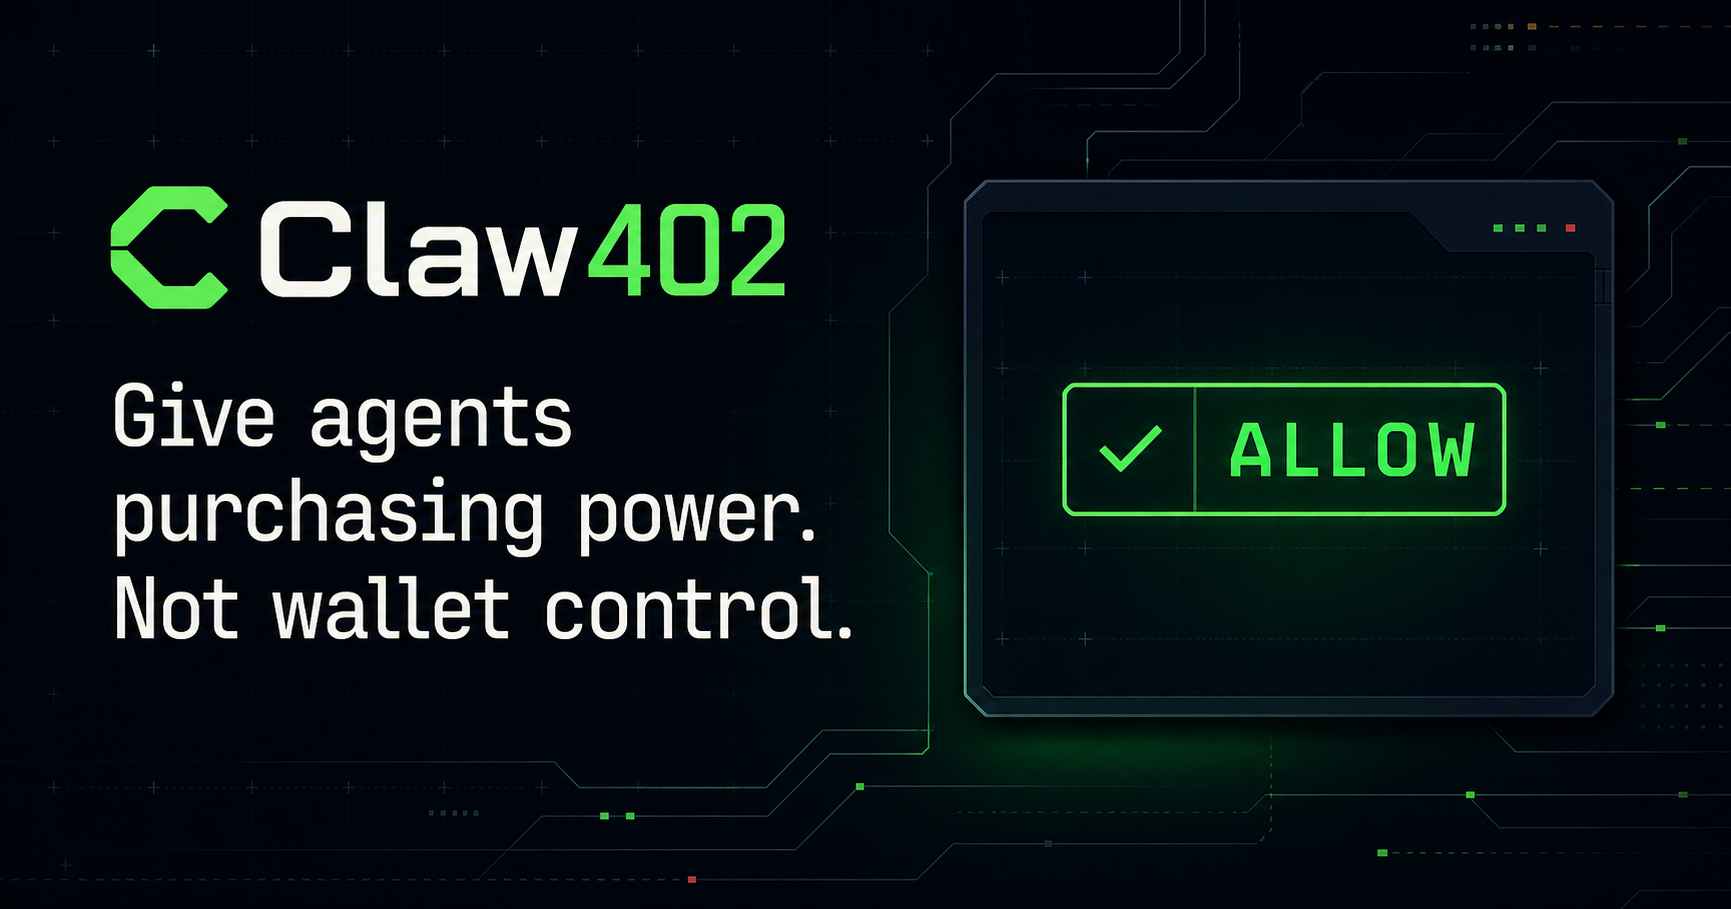
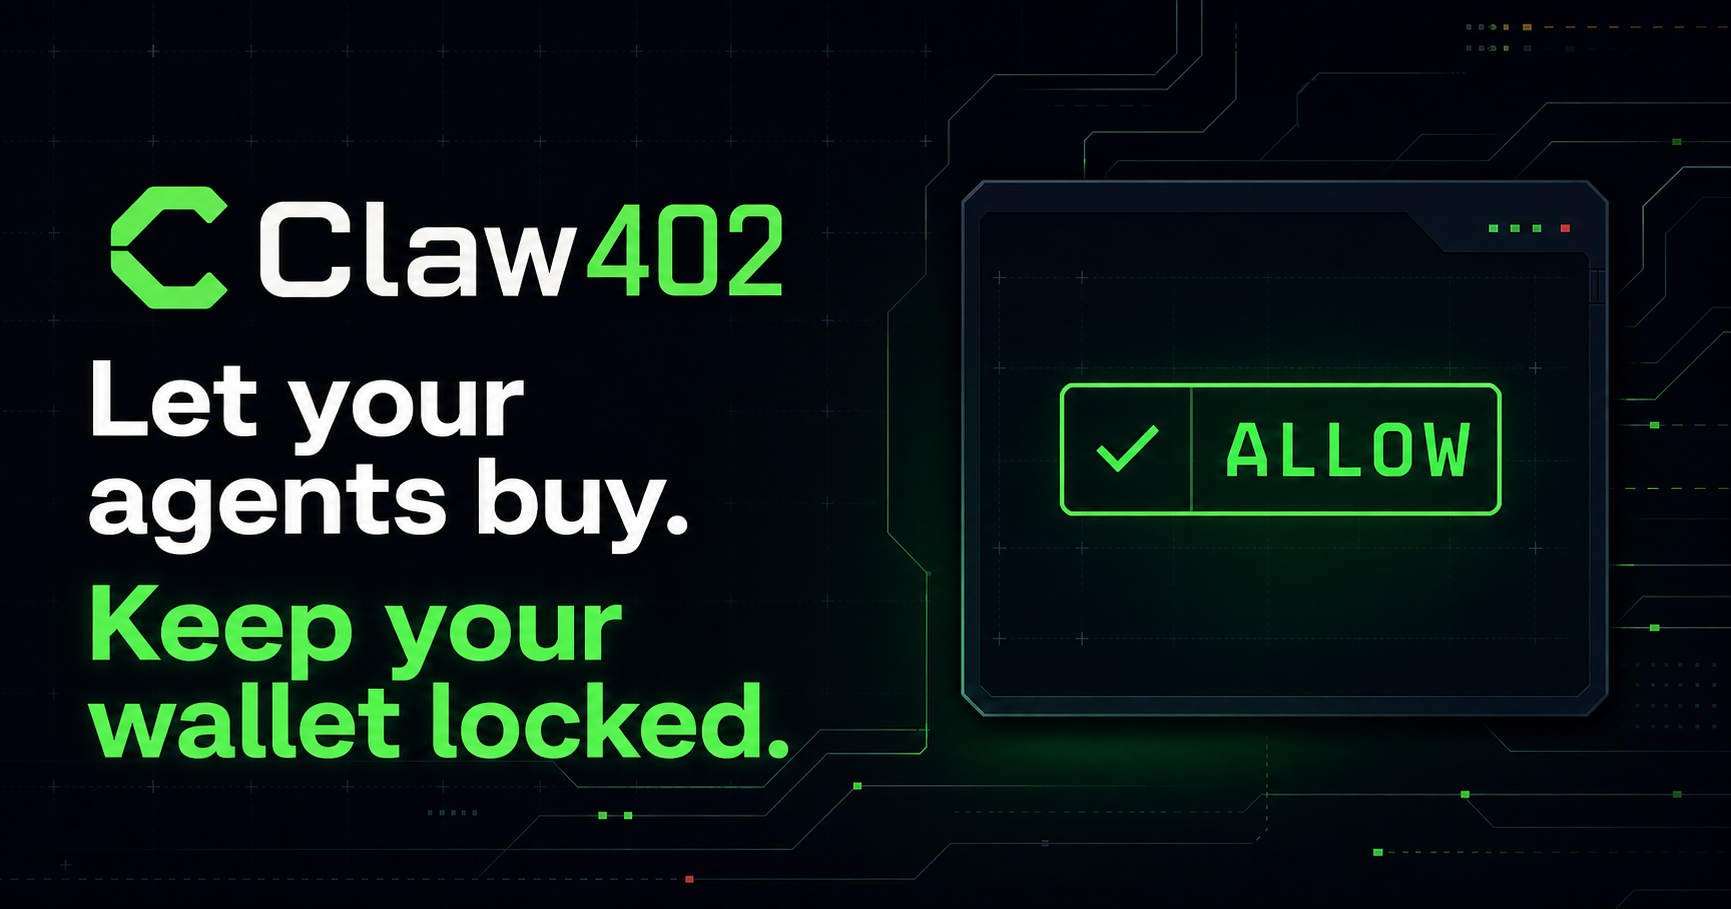
feat: sharpen Claw402 commercial positioning

diff --git a/website/app/page.tsx b/website/app/page.tsx
@@ -22,20 +22,19 @@ export default function Home() {
         <section className="hero section-wrap">
           <div className="hero-copy">
             <div className="eyebrow"><i /> Open source · Rust/WASM · Built for ZeroClaw</div>
-            <h1>Give agents purchasing power. <em>Not wallet control.</em></h1>
+            <h1>Let your agents buy. <em>Keep your wallet locked.</em></h1>
             <p>
-              Claw402 is a deterministic payment firewall for self-hosted agents.
-              Discover paid x402 APIs, inspect every payment field, and enforce the
-              operator&apos;s policy before value can move.
+              Claw402 lets autonomous agents purchase paid APIs while deterministic
+              policy controls every amount, recipient, asset, and network.
             </p>
             <div className="button-row">
-              <a className="button" href="/developers#install">Install Claw402 <ArrowRight size={16} weight="bold" /></a>
-              <a className="button button-ghost" href="/product">Explore product</a>
+              <a className="button" href="/developers#install">Install the firewall <ArrowRight size={16} weight="bold" /></a>
+              <a className="button button-ghost" href="/product#playground">See it block a payment</a>
             </div>
             <div className="hero-facts" aria-label="Current release facts">
-              <span><b>09</b> adversarial tests</span>
-              <span><b>15</b> live offers screened</span>
-              <span><b>00</b> keys exposed</span>
+              <span><b>CAPS</b> enforced</span>
+              <span><b>0</b> keys in model</span>
+              <span><b>FAIL</b> closed</span>
             </div>
           </div>
           <AnimatedPolicyTerminal />
@@ -46,11 +45,11 @@ export default function Home() {
         <section className="section-wrap problem-section">
           <div className="problem-intro">
             <div className="section-label">01 / The control gap</div>
-            <h2>Autonomous agents need <em>economic access.</em></h2>
+            <h2>Your agents need access. <em>Your wallet needs boundaries.</em></h2>
             <p>
-              Giving an LLM direct control over a wallet is reckless. Blocking all
-              paid services makes the agent less useful. Claw402 creates the
-              deterministic boundary between those two extremes.
+              Blocking paid services makes agents less useful. Giving a model direct
+              wallet control creates unacceptable risk. Claw402 gives them a narrow,
+              enforceable path to buy what they need.
             </p>
             <a className="text-link" href="/security">Read the security model <ArrowRight size={15} weight="bold" /></a>
           </div>
@@ -77,8 +76,8 @@ export default function Home() {
         <section className="section-wrap execution-section">
           <div className="section-heading centered">
             <div className="section-label">02 / Secure execution flow</div>
-            <h2>The model proposes. <em>Claw402 verifies.</em></h2>
-            <p>Probabilistic intent enters. A machine-readable policy decision leaves.</p>
+            <h2>The agent asks. <em>Policy decides.</em></h2>
+            <p>Every paid request passes through one deterministic gate.</p>
           </div>
           <div className="flow-system" aria-label="Claw402 secure execution flow">
             <div className="flow-node">
@@ -107,18 +106,18 @@ export default function Home() {
           <div className="section-wrap preview-grid">
             <div>
               <div className="section-label">03 / Product surface</div>
-              <h2>Policy decisions you can inspect.</h2>
+              <h2>See every payment decision before value moves.</h2>
               <p>
-                Every allow, denial, or approval request carries an explicit reason.
-                Test offers in the playground, then move the same controls into the
-                ZeroClaw runtime.
+                Every allow, denial, or approval request explains exactly why it
+                passed or stopped. Test a live-shaped offer, then bring the same
+                controls into ZeroClaw.
               </p>
               <ul className="feature-list">
                 <li><CheckCircle size={19} weight="fill" /> Atomic-unit spending caps</li>
                 <li><CheckCircle size={19} weight="fill" /> Network and asset pinning</li>
                 <li><CheckCircle size={19} weight="fill" /> Merchant, fee-payer, and host approval</li>
               </ul>
-              <a className="button" href="/product#playground">Open policy playground <ArrowRight size={16} weight="bold" /></a>
+              <a className="button" href="/product#playground">Test a payment <ArrowRight size={16} weight="bold" /></a>
             </div>
             <AnimatedPolicyTerminal compact />
           </div>
@@ -127,7 +126,7 @@ export default function Home() {
         <section className="section-wrap capability-section">
           <div className="section-heading">
             <div className="section-label">04 / Built as a boundary</div>
-            <h2>Hard limits live outside the prompt.</h2>
+            <h2>Rules prompts cannot rewrite.</h2>
           </div>
           <div className="capability-grid">
             {[
@@ -150,11 +149,11 @@ export default function Home() {
 
         <section className="final-cta section-wrap">
           <div className="section-label">CLAW402 / OPEN SOURCE</div>
-          <h2>Procurement rails for agents—without an unrestricted wallet.</h2>
-          <p>Install the policy component, run the tests, and inspect every decision.</p>
+          <h2>Give agents a budget—not your wallet.</h2>
+          <p>Install the policy gate, define the limits, and inspect every decision.</p>
           <div className="button-row">
-            <a className="button" href="/developers#install">Start building <ArrowRight size={16} weight="bold" /></a>
-            <a className="button button-ghost" href="/security">Review security</a>
+            <a className="button" href="/developers#install">Install the firewall <ArrowRight size={16} weight="bold" /></a>
+            <a className="button button-ghost" href="/security">See how it stays locked</a>
           </div>
         </section>
       </main>

diff --git a/website/app/product/page.tsx b/website/app/product/page.tsx
@@ -21,15 +21,14 @@ export default function ProductPage() {
       <main>
         <section className="subpage-hero section-wrap">
           <div className="section-label">PRODUCT / POLICY FIREWALL</div>
-          <h1>Turn paid APIs into <em>policy-controlled capabilities.</em></h1>
+          <h1>Every paid API. <em>One policy gate.</em></h1>
           <p>
-            Claw402 discovers x402 offers, normalizes payment requirements, and
-            evaluates them against deterministic operator policy before a signer
-            is ever involved.
+            Let agents discover and purchase x402 services without giving the model
+            unrestricted spending power. Every offer must clear your rules first.
           </p>
           <div className="button-row">
-            <a className="button" href="#playground">Try the playground <ArrowRight size={16} weight="bold" /></a>
-            <a className="button button-ghost" href="/developers">Developer setup</a>
+            <a className="button" href="#playground">Test a payment <ArrowRight size={16} weight="bold" /></a>
+            <a className="button button-ghost" href="/developers">Install the firewall</a>
           </div>
         </section>
         <Marquee />
@@ -37,7 +36,7 @@ export default function ProductPage() {
         <section className="section-wrap product-steps">
           <div className="section-heading">
             <div className="section-label">01 / Procurement pipeline</div>
-            <h2>One controlled path from intent to decision.</h2>
+            <h2>From paid request to policy verdict.</h2>
           </div>
           <div className="step-rail">
             {[
@@ -58,8 +57,8 @@ export default function ProductPage() {
         <section className="playground-section" id="playground">
           <div className="section-wrap">
             <div className="section-heading playground-heading">
-              <div><div className="section-label">02 / Policy playground</div><h2>Try to break the firewall.</h2></div>
-              <p>Change the offer and see the deterministic decision update. Frontend simulation only—no transaction or wallet connection.</p>
+              <div><div className="section-label">02 / Policy playground</div><h2>See Claw402 stop a bad payment.</h2></div>
+              <p>Change the amount, recipient, or fee payer and watch policy react. Simulation only—no transaction or wallet connection.</p>
             </div>
             <PolicyPlayground />
           </div>
@@ -68,7 +67,7 @@ export default function ProductPage() {
         <section className="section-wrap roadmap-section">
           <div className="section-heading">
             <div className="section-label">03 / Delivery path</div>
-            <h2>From policy firewall to agent procurement.</h2>
+            <h2>Today: policy. Next: controlled settlement.</h2>
           </div>
           <div className="roadmap-visual">
             <div className="roadmap-axis" aria-hidden="true"><i /><i /><i /></div>
@@ -91,8 +90,8 @@ export default function ProductPage() {
 
         <section className="final-cta section-wrap compact-cta">
           <div className="section-label">NEXT / INTEGRATE</div>
-          <h2>Bring deterministic policy into ZeroClaw.</h2>
-          <div className="button-row"><a className="button" href="/developers#install">Install component <ArrowRight size={16} weight="bold" /></a></div>
+          <h2>Put a policy gate in front of agent spending.</h2>
+          <div className="button-row"><a className="button" href="/developers#install">Install the firewall <ArrowRight size={16} weight="bold" /></a></div>
         </section>
       </main>
       <SiteFooter />

diff --git a/website/app/developers/page.tsx b/website/app/developers/page.tsx
@@ -19,13 +19,13 @@ export default function DevelopersPage() {
       <main>
         <section className="subpage-hero section-wrap developer-hero">
           <div className="section-label">DEVELOPERS / RUST + WASM</div>
-          <h1>Inspect the policy. <em>Run the tests.</em></h1>
+          <h1>Install the firewall. <em>Then connect the wallet.</em></h1>
           <p>
-            Build Claw402 as a WASI component, install it into ZeroClaw, and keep
-            payment authority in machine-readable operator configuration.
+            Add deterministic spending caps, asset pinning, merchant allowlists,
+            and fail-closed decisions to your ZeroClaw runtime.
           </p>
           <div className="button-row">
-            <a className="button" href="#install">Install from source <ArrowRight size={16} weight="bold" /></a>
+            <a className="button" href="#install">Build Claw402 <ArrowRight size={16} weight="bold" /></a>
             <a className="button button-ghost" href="/downloads/claw402-policy.wasm" download>Download WASM</a>
           </div>
         </section>
@@ -46,7 +46,7 @@ export default function DevelopersPage() {
         <section className="section-wrap install-page-section" id="install">
           <div className="install-page-copy">
             <div className="section-label">01 / Quickstart</div>
-            <h2>From source to policy component.</h2>
+            <h2>Four commands to a deterministic policy gate.</h2>
             <p>
               The current release covers live Bazaar discovery and deterministic
               policy evaluation. Production signing and autonomous mainnet
@@ -64,7 +64,7 @@ export default function DevelopersPage() {
         <section className="section-wrap config-section">
           <div className="section-heading">
             <div className="section-label">02 / Operator configuration</div>
-            <h2>Authority is explicit, reviewable, and versionable.</h2>
+            <h2>Your spending policy, in version-controlled config.</h2>
           </div>
           <div className="config-grid">
             {[
@@ -80,14 +80,14 @@ export default function DevelopersPage() {
 
         <section className="section-wrap download-card">
           <div className="download-icon"><DownloadSimple size={34} weight="duotone" /></div>
-          <div><div className="section-label">PREBUILT ARTIFACT</div><h2>Download the WASM component.</h2><p>Use the artifact for evaluation, or build from source to inspect the exact policy implementation.</p></div>
+          <div><div className="section-label">PREBUILT ARTIFACT</div><h2>Ship the policy as a WASM component.</h2><p>Download the artifact for evaluation, or build from source to inspect every rule.</p></div>
           <a className="button" href="/downloads/claw402-policy.wasm" download>Download WASM <DownloadSimple size={17} weight="bold" /></a>
         </section>
 
         <section className="final-cta section-wrap compact-cta">
           <div className="section-label">TEST / INSPECT / INTEGRATE</div>
-          <h2>Make payment authority a runtime decision—not a prompt instruction.</h2>
-          <div className="button-row"><a className="button" href="/product#playground">Try policy playground <ArrowRight size={16} weight="bold" /></a></div>
+          <h2>Make agent spending a runtime permission.</h2>
+          <div className="button-row"><a className="button" href="/product#playground">See a payment get blocked <ArrowRight size={16} weight="bold" /></a></div>
         </section>
       </main>
       <SiteFooter />

diff --git a/website/app/security/page.tsx b/website/app/security/page.tsx
@@ -29,15 +29,14 @@ export default function SecurityPage() {
       <main>
         <section className="subpage-hero section-wrap security-hero">
           <div className="section-label">SECURITY / TRUST BOUNDARY</div>
-          <h1>Probabilistic intent. <em>Deterministic execution.</em></h1>
+          <h1>The model can ask. <em>Only policy can approve.</em></h1>
           <p>
-            Claw402 treats prompts, model output, Bazaar metadata, and external APIs
-            as untrusted. Spending authority is defined by operator configuration
-            and enforced outside the model.
+            Keep prompts useful without making them powerful. Claw402 moves spending
+            authority into deterministic, operator-owned rules outside the model.
           </p>
           <div className="button-row">
-            <a className="button" href="#architecture">View architecture <ArrowRight size={16} weight="bold" /></a>
-            <a className="button button-ghost" href="/product#playground">Test policy</a>
+            <a className="button" href="#architecture">See the trust boundary <ArrowRight size={16} weight="bold" /></a>
+            <a className="button button-ghost" href="/product#playground">Watch a payment fail</a>
           </div>
         </section>
 
@@ -45,7 +44,7 @@ export default function SecurityPage() {
           <div className="section-wrap">
             <div className="section-heading">
               <div className="section-label">01 / Trust zones</div>
-              <h2>Authority narrows at the boundary.</h2>
+              <h2>Anything can propose. Only policy has authority.</h2>
             </div>
             <div className="trust-diagram">
               <div className="trust-zone untrusted">
@@ -70,8 +69,8 @@ export default function SecurityPage() {
         <section className="section-wrap controls-section">
           <div className="section-heading">
             <div className="section-label">02 / Defense in depth</div>
-            <h2>Controls you can reason about.</h2>
-            <p>Each control constrains a distinct field or runtime boundary; no safety claim depends on prompt compliance.</p>
+            <h2>Controls prompts cannot negotiate.</h2>
+            <p>Each rule constrains a payment field or runtime boundary. Safety never depends on the model choosing to comply.</p>
           </div>
           <div className="controls-grid">
             {controls.map(([Icon, title, copy], index) => (
@@ -107,8 +106,8 @@ export default function SecurityPage() {
 
         <section className="final-cta section-wrap compact-cta">
           <div className="section-label">VERIFY / THEN BUILD</div>
-          <h2>Inspect the policy before you grant authority.</h2>
-          <div className="button-row"><a className="button" href="/developers">Open developer setup <ArrowRight size={16} weight="bold" /></a></div>
+          <h2>Lock the rules before agents can spend.</h2>
+          <div className="button-row"><a className="button" href="/developers">Install the firewall <ArrowRight size={16} weight="bold" /></a></div>
         </section>
       </main>
       <SiteFooter />

diff --git a/website/app/layout.tsx b/website/app/layout.tsx
@@ -13,11 +13,11 @@ export async function generateMetadata(): Promise<Metadata> {
   const metadataBase = new URL(`${protocol}://${host}`);
   return {
     metadataBase,
-    title: "Claw402 — The payment firewall for autonomous agents",
-    description: "Give agents purchasing power, not wallet control. Deterministic x402 payment policy for self-hosted ZeroClaw agents on Solana.",
+    title: "Claw402 — Let your agents buy. Keep your wallet locked.",
+    description: "A deterministic payment firewall that lets autonomous agents purchase x402 APIs without unrestricted wallet control.",
     openGraph: {
-      title: "Claw402 — Give agents purchasing power. Not wallet control.",
-      description: "A deterministic payment firewall for autonomous agents.",
+      title: "Claw402 — Let your agents buy. Keep your wallet locked.",
+      description: "Give autonomous agents a budget—not unrestricted wallet control.",
       images: [{ url: "/og.png", width: 1200, height: 630, alt: "Claw402 policy firewall" }],
     },
     twitter: { card: "summary_large_image", images: ["/og.png"] },

diff --git a/website/app/components/SiteHeader.tsx b/website/app/components/SiteHeader.tsx
@@ -27,7 +27,7 @@ export function SiteHeader() {
       </nav>
       <div className="header-actions">
         <a className="button button-small" href="/developers#install">
-          Install Claw402
+          Install the firewall
         </a>
         <button
           className="menu-button"
